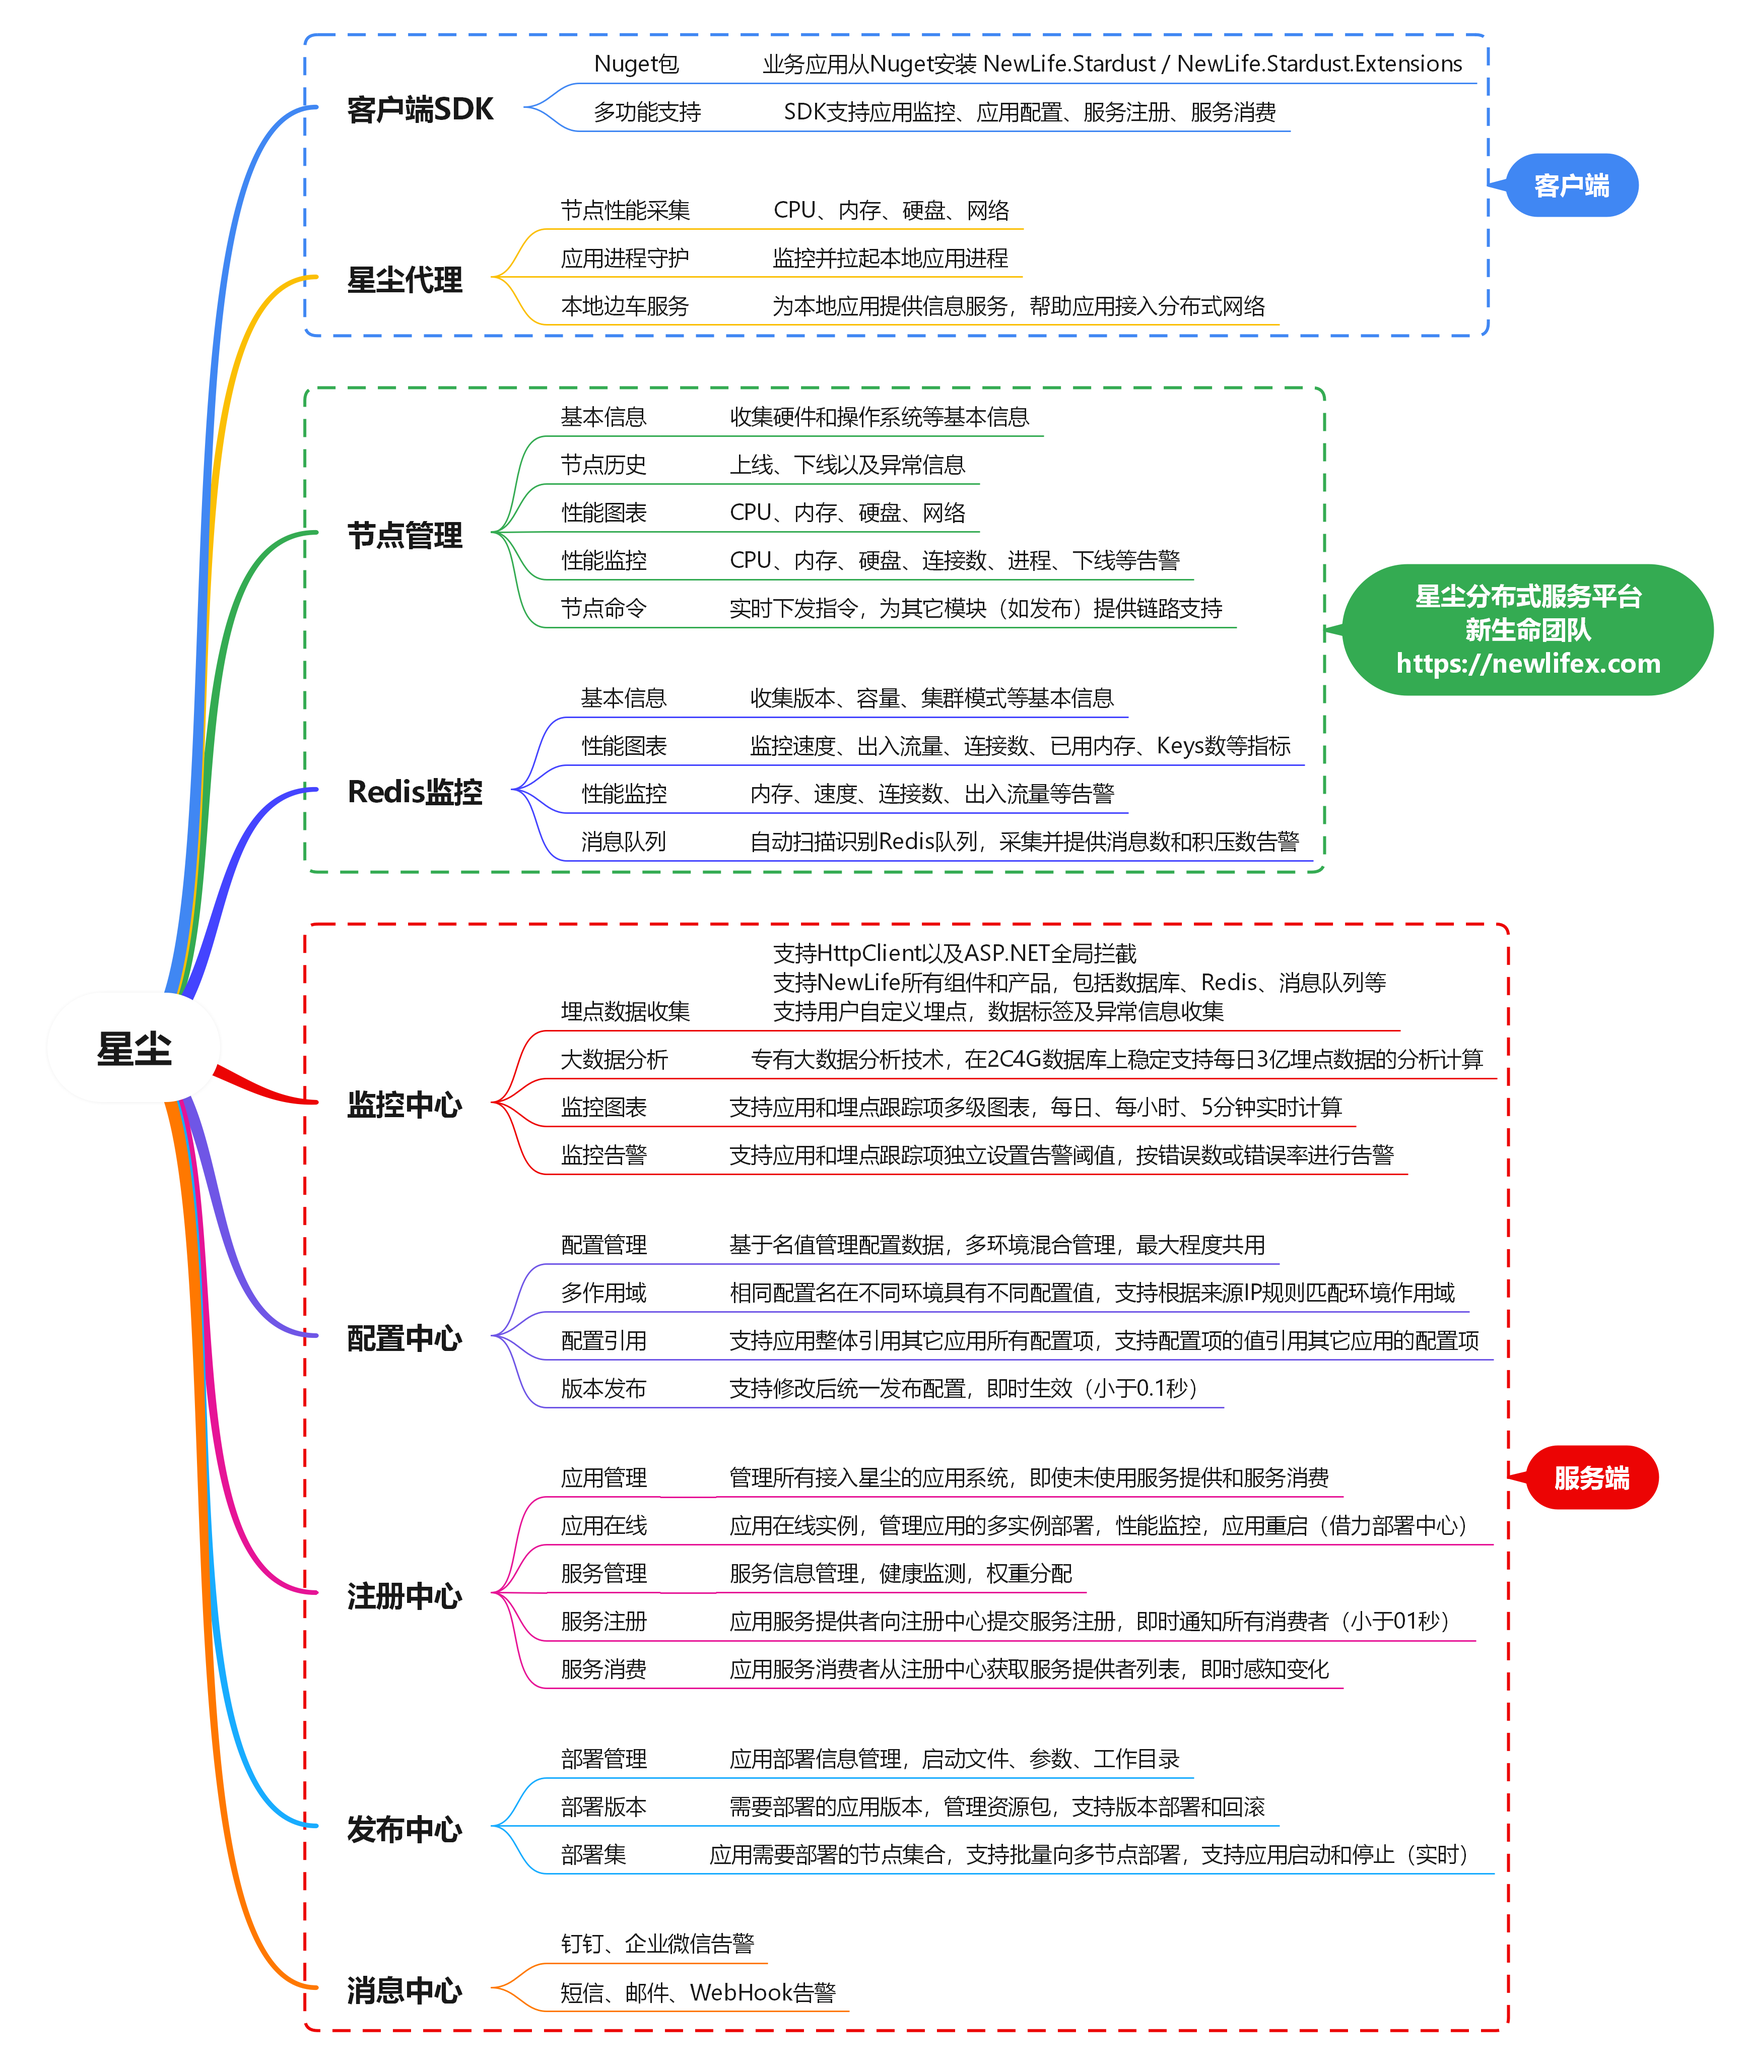
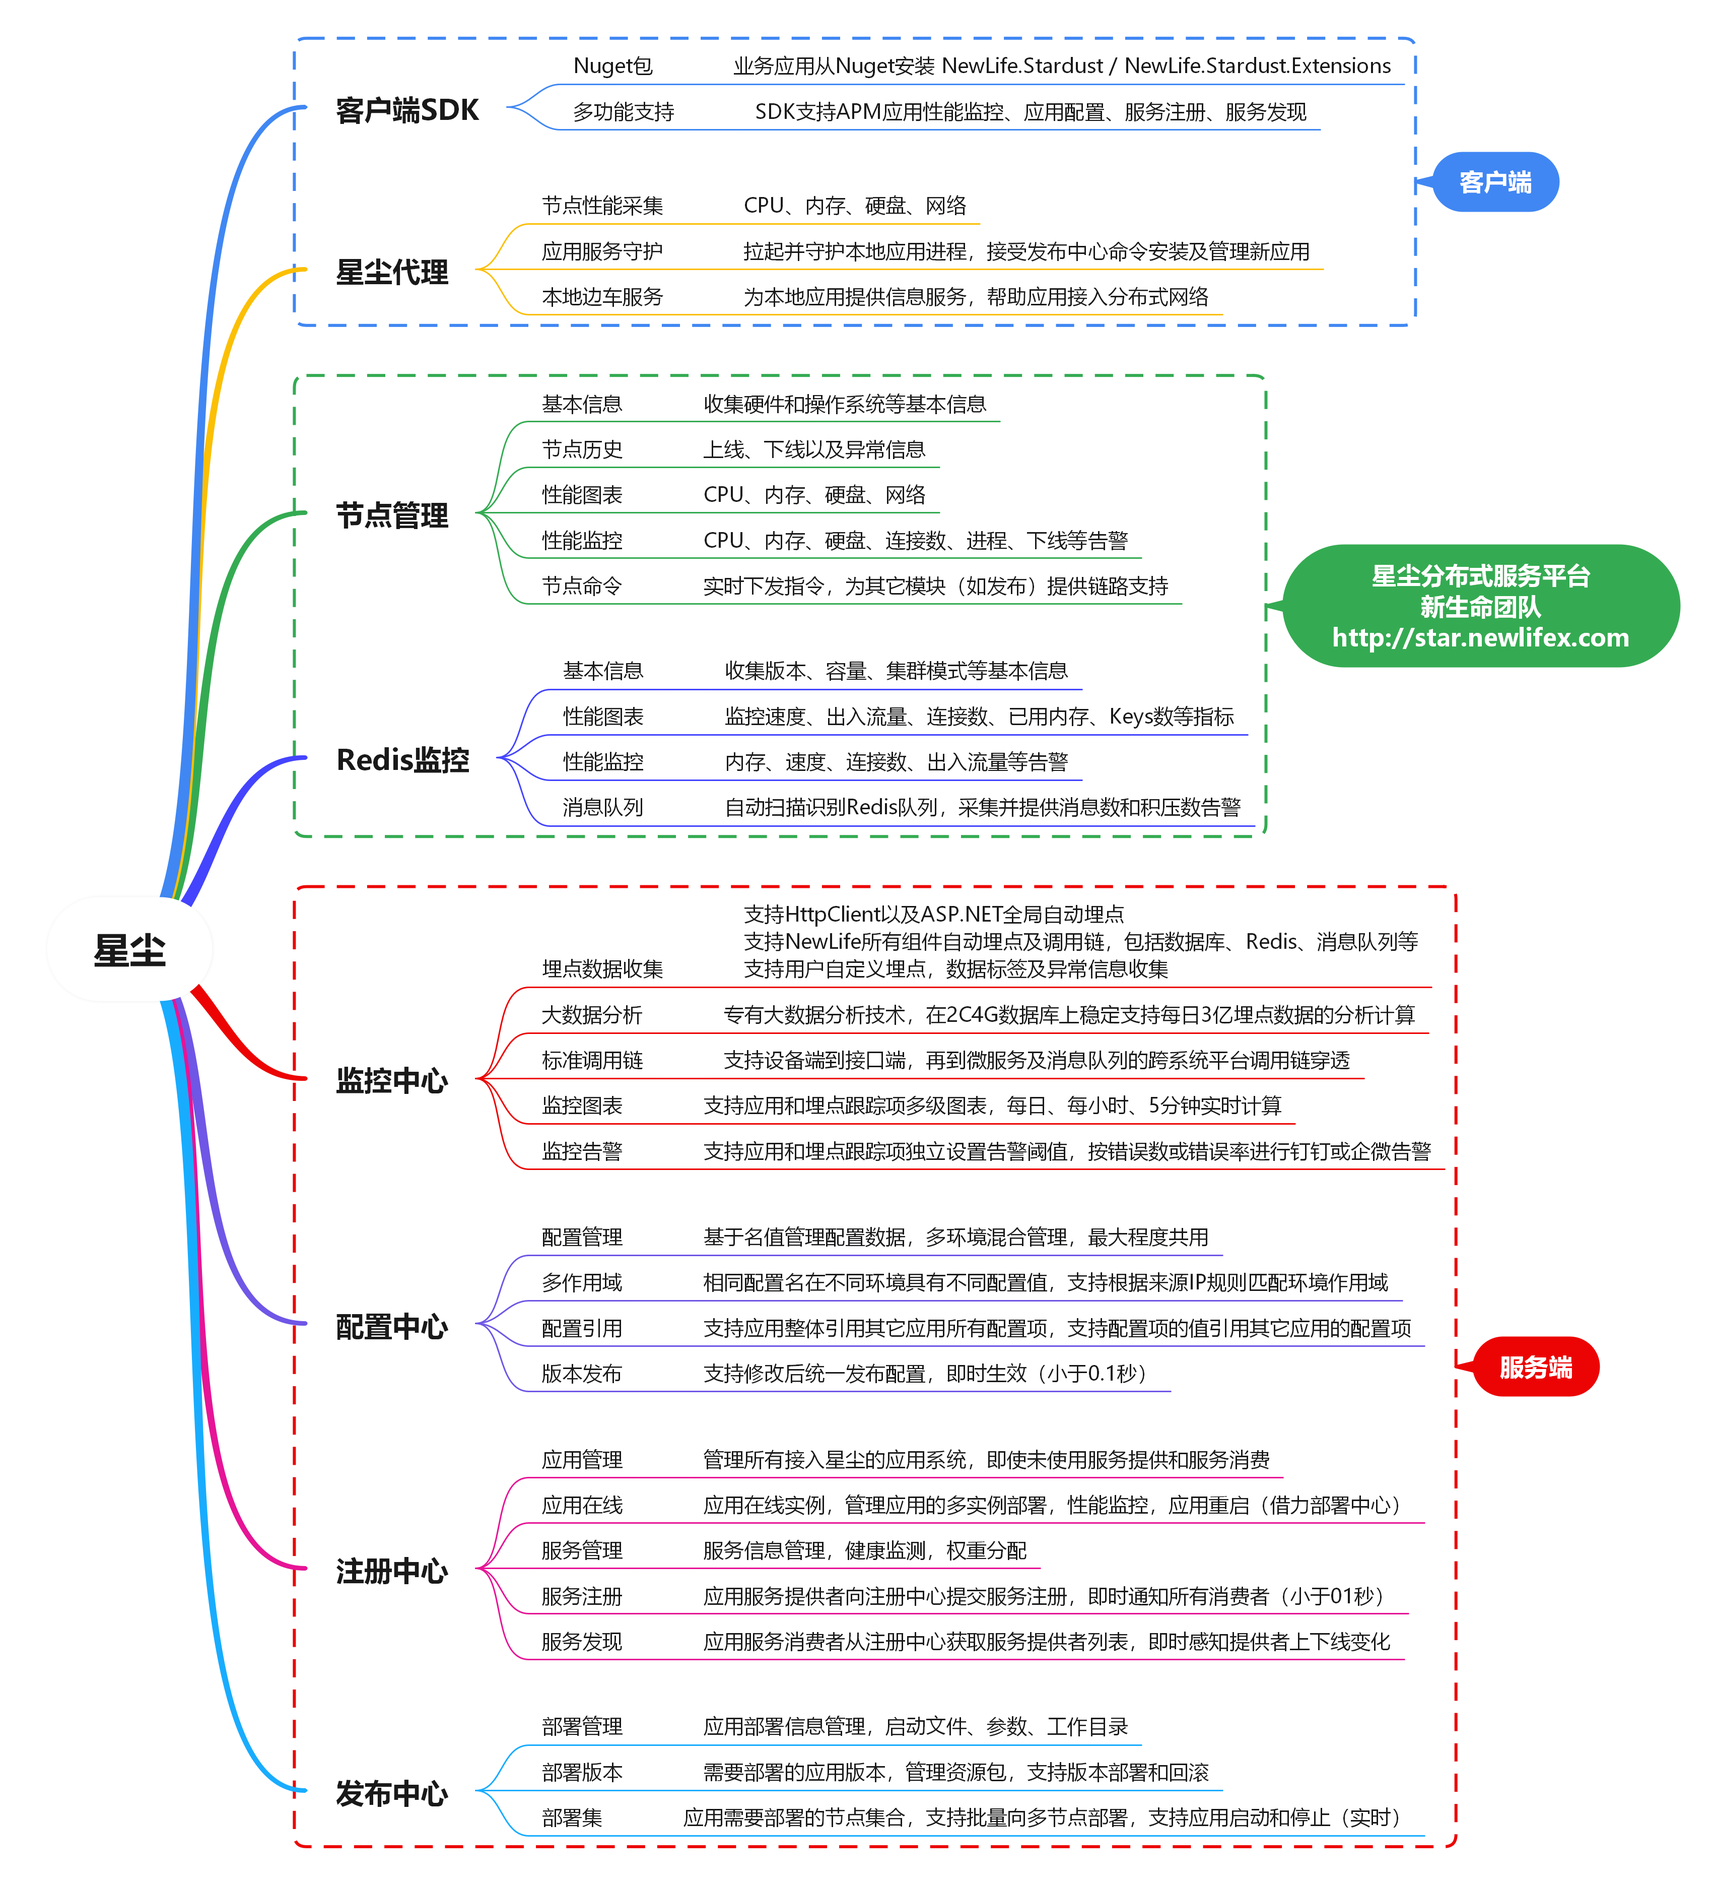
更新说明文档

diff --git a/Readme.MD b/Readme.MD
@@ -11,20 +11,32 @@
 ![Nuget (with prereleases)](https://img.shields.io/nuget/vpre/newlife.stardust.extensions?label=dev%20nuget&logo=nuget)
 
 ## 星尘
-Stardust  星尘，轻量级分布式服务框架！  
-设计理念: 简单，易于维护扩展！  
-集群管理、配置中心、远程自动发布、服务治理。服务自动注册和发现，负载均衡，动态伸缩，故障转移，性能监控。
+应用服务犹如宇宙中的尘埃，而作为应用服务承载体的计算机节点是为星星，星星与尘埃构成整个浩瀚星空，即为星尘！  
+![XCode](Doc/星尘分布式.png)  
 
-## 核心功能路线图
-1. [x] 星尘代理。StarAgent部署在每台应用服务器，作为系统服务，通过配置拉起并守护业务应用进程，支持Windows/Linux/IoT  
-2. [x] 节点管理。中心化管理多机器上的StarAgent，支持机房内节点以及物联网边缘计算节点  
-3. [x] 应用管理。为每个应用系统分配接入密钥，用于配置中心、服务注册、服务消费等  
+Stardust  星尘，轻量级分布式服务框架！  
+集群管理、配置中心、性能监控、远程发布、服务治理。服务自动注册和发现，负载均衡，动态伸缩，故障转移。
+
+## 核心功能
+1. [x] 星尘代理。StarAgent部署在每台应用服务器，作为系统服务负责守护本地应用及监控节点性能，支持Windows/Linux/IoT  
+2. [x] 节点管理。中心化管理多机器上的海量StarAgent，支持机房内服务器节点、远端桌面工控机以及物联网边缘计算节点  
+3. [x] 应用管理。为每个应用系统分配接入密钥，用于配置中心、应用监控、服务注册、服务发现等  
 4. [x] 配置中心。各应用从配置中心读取自己的配置信息，有利于应用的多实例部署以及集中管理  
-5. [x] 远程发布。在星尘控制台上发布应用包到多台安装有星尘代理的应用服务器，StarAgent负责拉起并守护进程  
+5. [x] 监控中心。各应用（服务提供者和服务消费者）向中心上报性能指标等监控数据  
 6. [x] 注册中心。各微服务应用（服务提供者）向注册中心上报自身服务信息  
-7. [x] 服务消费。各业务应用（服务消费者）从注册中心拉取指定服务的提供者信息，分布式调用（不经网关）  
-8. [x] 监控中心。各应用（服务提供者和服务消费者）向中心上报性能指标等监控数据  
+7. [x] 服务发现。各业务应用（服务消费者）从注册中心拉取指定服务的提供者信息，分布式调用（不经网关）  
+8. [x] 远程发布。在星尘控制台上发布应用包到多台安装有星尘代理的应用服务器或物联网边缘节点，StarAgent负责拉起并守护进程  
 9. [x] 日志中心。各应用（服务提供者和服务消费者）向中心上报日志数据，统一在星尘Web查看  
+
+### 监控中心
+星尘监控介绍 [https://newlifex.com/blood/stardust_monitor](https://newlifex.com/blood/stardust_monitor)  
+应用监控
+![XCode](Doc/应用监控.png)  
+物联网平台远程控制花园水泵的调用链
+![XCode](Doc/调用链.png)  
+关系图
+![XCode](Doc/关系图.png)  
+
 
 ### 设计概要  
 提供者P向星尘S注册自己拥有的10个服务接口，消费者C也登入星尘S，得到访问令牌T，查找到某个接口刚好是P提供，于是得到了P的服务地址，然后C直连P，并使用访问令牌T表明身份  
